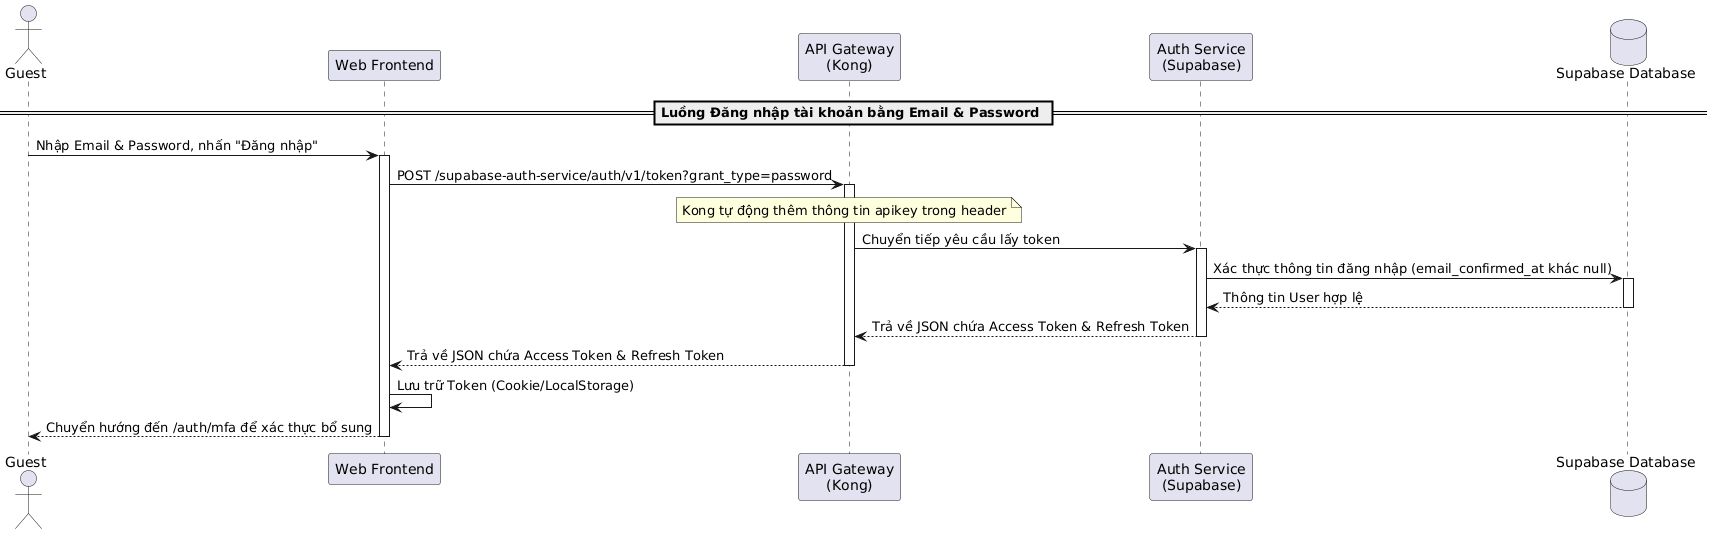
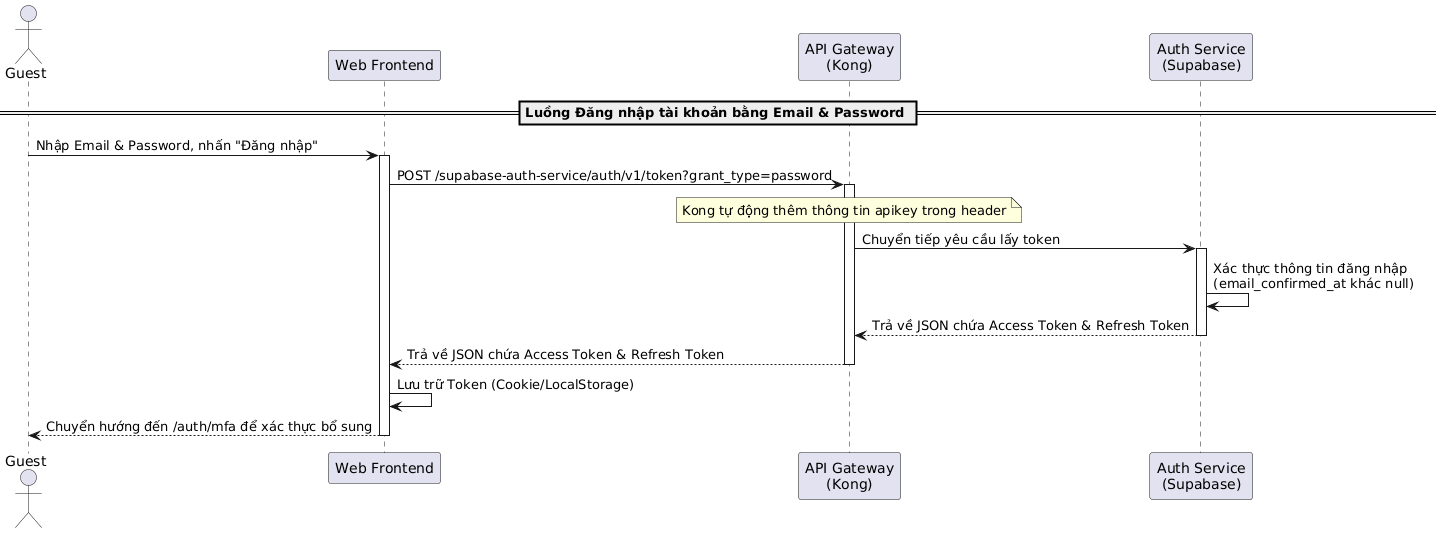
x

diff --git a/latex/contents/Sequence/UML-Sequence-UserEmailPasswordLogin.tex b/latex/contents/Sequence/UML-Sequence-UserEmailPasswordLogin.tex
@@ -1,13 +1,15 @@
-\paragraph{Sơ đồ tuần tự luồng Đăng nhập bằng Email \& Password}
+\paragraph{Sơ đồ tuần tự luồng đăng nhập bằng email \& password}
 
 Luồng nghiệp vụ này mô tả
-
-quá trình người dùng sử dụng tài khoản đã được kích hoạt trước đó để đăng nhập bằng phương thức POST trả về dữ liệu định dạng JSON, sau đó chuyển sang bước xác thực MFA để nâng cấp phiên làm việc trước khi truy cập hệ thống.
+quá trình người dùng
+sử dụng tài khoản đã được kích hoạt trước
+đó để đăng nhập bằng phương thức POST trả về dữ liệu định dạng JSON,
+sau đó chuyển sang bước xác thực MFA để nâng cấp phiên làm việc trước khi truy cập hệ thống.
 
 \begin{figure}[H]
 \centering
 \includegraphics[scale = 0.18]{contents/Sequence/UML-Sequence-UserEmailPasswordLogin.png}
-\caption{Sơ đồ tuần tự luồng Đăng nhập bằng Email \& Password}
+\caption{Sơ đồ tuần tự luồng đăng nhập bằng email \& password}
 \end{figure}
 
 \subparagraph{Các thành phần tham gia}
@@ -15,16 +17,16 @@ quá trình người dùng sử dụng tài khoản đã được kích hoạt t
 \begin{table}[H]
 \centering
 \renewcommand{\arraystretch}{1.3}
+
 \begin{tabular}{|l|l|p{5cm}|}
 \hline
 \textbf{Thành phần} & \textbf{Phân loại} & \textbf{Vai trò trong hệ thống} \\ \hline
 Guest & Actor & Khách vãng lai đăng nhập bằng tài khoản sẵn có. \\ \hline
-Web Frontend & Component & Giao diện web Next.js. \\ \hline %%%% Component & Giao diện tiếp nhận thông tin và lưu trữ token đăng nhập. \\ \hline
-API Gateway (Kong) & Component & Cổng API chuyển tiếp các yêu cầu API. \\ \hline %%%% Component & Chuyển tiếp yêu cầu lấy token của người dùng tới Auth Service. \\ \hline
+Web Frontend & Component & Giao diện web Next.js. \\ \hline
+API Gateway (Kong) & Component & Cổng API chuyển tiếp các yêu cầu API. \\ \hline
 Auth Service (Supabase) & Microservice & Xác thực thông tin tài khoản và trả trực tiếp dữ liệu token dạng JSON. \\ \hline
-Supabase Database & Database & Kiểm tra thông tin người dùng và trạng thái kích hoạt tài khoản. \\ \hline
 \end{tabular}
-\caption{Các thành phần tham gia luồng Đăng nhập bằng Email \& Password}
+\caption{Các thành phần tham gia luồng đăng nhập bằng email \& password}
 \end{table}
 
 \subparagraph{Mô tả tổng quan}
@@ -32,7 +34,7 @@ Supabase Database & Database & Kiểm tra thông tin người dùng và trạng 
 \begin{itemize}
 \item Guest điền địa chỉ Email và mật khẩu, chọn nút Đăng nhập trên Web Frontend.
 \item Web Frontend thực hiện cuộc gọi POST trực tiếp qua API Gateway (Kong) đến endpoint lấy token của Auth Service.
-\item Auth Service truy vấn Database để kiểm tra thông tin đăng nhập và đảm bảo tài khoản đã được xác nhận email (\texttt{email\_confirmed\_at} khác null).
+\item Auth Service xác thực thông tin đăng nhập và đảm bảo tài khoản đã được kích hoạt trước đó (\texttt{email\_confirmed\_at} khác null).
 \item Nếu thông tin hợp lệ, Auth Service sinh cặp mã token JWT (Access Token và Refresh Token) gửi trực tiếp về API Gateway dưới dạng phản hồi JSON.
 \item API Gateway chuyển tiếp phản hồi JSON về Web Frontend. Frontend thực hiện lưu trữ mã token cục bộ (Cookie/LocalStorage) và chuyển hướng người dùng sang \texttt{/auth/mfa} để xác thực bổ sung; sau khi phiên làm việc đạt \texttt{aal2}, người dùng mới được chuyển vào trang giao diện chính (\texttt{/chat}).
 \end{itemize}
